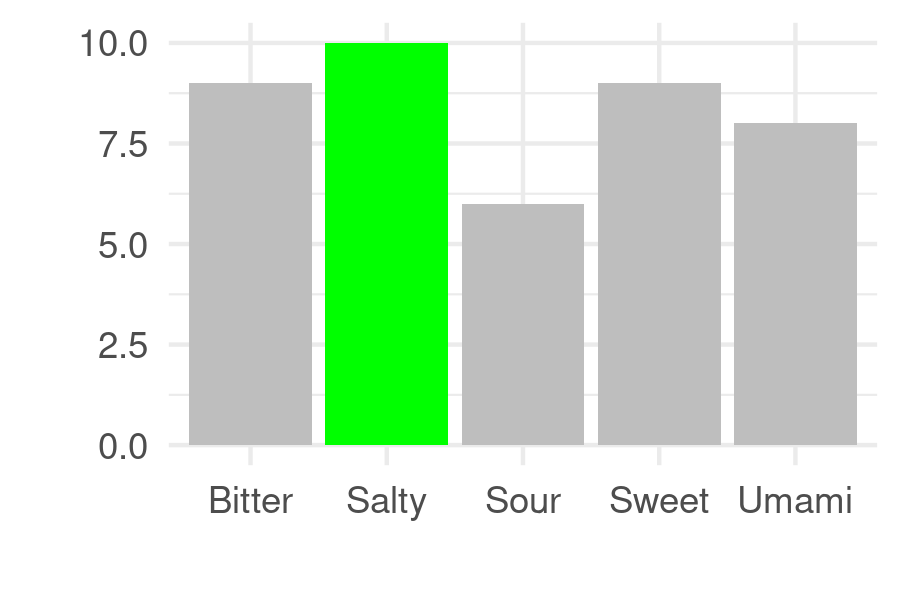
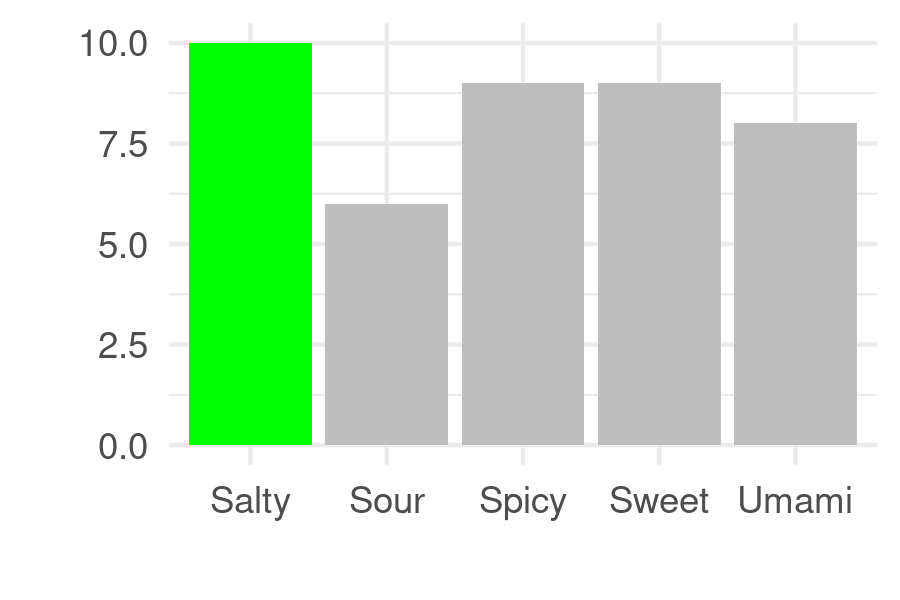
spicy

diff --git a/experiment.js b/experiment.js
@@ -196,11 +196,11 @@ var computer_choice = {
       </thead>
       <tbody>
         <tr>
-          <td class="tg-pcvp"><span style="color:green;">You</span></td>
+          <td class="tg-pcvp"><span style="color:LightSeaGreen;">You</span></td>
           <td class="tg-pcvp">Counterpart</td>
         </tr>
         <tr>
-          <td class="tg-pcvp"><span style="color:green;">` + score_self + `</span><br></td>
+          <td class="tg-pcvp"><span style="color:LightSeaGreen;">` + score_self + `</span><br></td>
           <td class="tg-pcvp">` + score_other + `</td>
         </tr>
       </tbody>
@@ -293,7 +293,7 @@ var group_assignment = {
       There are 42 people in the <span style="color:blue;">${team}</span> group,
       and 41 people in the <span style="color:red;">${other_team}</span> group.
       <br><br>From this point on, you will be interacting with other real people.
-      Please be respectful and answer in a timely fashion.
+      Please be respectful and answer in a timely fashion. If you are idle for more than 1 minute you may be removed from the experiment without full compensation.
       <br><br>Press "c" to continue.</div>`
     );
   },
@@ -358,11 +358,10 @@ var instructions_all_block = {
   choies: ['c'],
   stimulus: `<div id="instructions">
   In the next portion of the experiment, you will be shown several images while interacting with other participants over the Internet, in real time.
-  <br>
   If you have trouble viewing an image, please zoom in or out using your browser (by pressing control/command plus or minus on your keyboard).
-  <br>
   You will <b>NOT</b> be able to return to instructions after continuing. Please read all instructions carefully.
   At any point, you may press "c" to continue, unless another action is required.
+  If you are idle for more than 1 minute you may be removed from the experiment without full compensation.
   <br>
   Press "c" to continue.
   </div>`,
@@ -420,9 +419,9 @@ var instruction_pd_block = {
       '<h1>Instructions</h1>' +
       '<div id="instructions">You will be playing with another participant ' +
       team_statement +
-      `who is connected to the game in another location.<br>
+      `who is connected to the game in another location. Please be mindful and respectful of their time.<br>
       The amount of points you earn will be determined by the decisions
-      that you make in combination with the decision of the other participant.<br>
+      that you make in combination with the decision of the other participant. At the end of the game, each point will be worth $x that you will receive after the experiment.<br>
       You will be playing a series of rounds.
       <br>
       Press "c" to continue.` +
@@ -441,7 +440,7 @@ var instruction_pd_block_payout = {
     (which will be available while playing):</div>` +
     payout_table +
     `<div id="instructions"><br>
-    Your actions and earnings are indicated in <span style="color:green;">green</span> text.
+    Your actions and earnings are indicated in <span style="color:LightSeaGreen;">green</span> text.
     For example, if you choose to cooperate and your counterpart chooses to cooperate, you both will be awarded 6 points.
     <br>If you choose to cooperate and your counterpart chooses to not cooperate, you will be awarded 0 points and your counterpart will be awarded 10 points.
     <br>
@@ -570,7 +569,7 @@ var color_selection = {
 var flavor_selection = {
   type: 'html-button-response',
   stimulus: '',
-  choices: ['Sweet', 'Salty', 'Sour', 'Bitter', 'Umami'],
+  choices: ['Sweet', 'Salty', 'Sour', 'Spicy', 'Umami'],
   prompt: "<p>Out of the flavors listed, which do you prefer?</p>"
 };
 
@@ -583,7 +582,7 @@ var favorite_thing_prompt_ = {
     var responses = jsPsych.data.get().last(7).values() //[0].button_pressed;
     var fruit = ['Apples', 'Bananas', 'Strawberries', 'Grapes'][parseInt(responses[1].button_pressed)];
     var color = ['Blue', 'Green', 'Red', 'Yellow'][parseInt(responses[3].button_pressed)];
-    var flavor = ['Sweet', 'Salty', 'Sour', 'Bitter', 'Umami'][parseInt(responses[5].button_pressed)];
+    var flavor = ['Sweet', 'Salty', 'Sour', 'Spicy', 'Umami'][parseInt(responses[5].button_pressed)];
     console.log(responses);
     var x = `<p>The bar plots below show what others in your group chose.
     Your choice is indicated in green.</p>
@@ -612,7 +611,7 @@ var favorite_thing_prompt = {
     var responses = jsPsych.data.get().last(7).values() //[0].button_pressed;
     var fruit = ['Apples', 'Bananas', 'Strawberries', 'Grapes'][parseInt(responses[1].button_pressed)];
     var color = ['Blue', 'Green', 'Red', 'Yellow'][parseInt(responses[3].button_pressed)];
-    var flavor = ['Sweet', 'Salty', 'Sour', 'Bitter', 'Umami'][parseInt(responses[5].button_pressed)];
+    var flavor = ['Sweet', 'Salty', 'Sour', 'Spicy', 'Umami'][parseInt(responses[5].button_pressed)];
     jsPsych.data.addProperties({ fruit: fruit, color: color, flavor: flavor });
     var x = `<p>You will be shown a series of bar plots of what things other participants in your group chose.
     Your choice is indicated by the green bar in the plot.</p>
@@ -666,7 +665,7 @@ var favorite_thing_prompt_flavor = {
 
 var favorite_thing_question = {
   type: 'survey-likert',
-  preamble: '<p>Would you agree that you have similar tastes to others in your group, based on their responses to the previous questions?</p>',
+  preamble: '<p>Based on the responses of others in your group to the previous questions, would you agree that you are similar to others in your group?</p>',
   questions: [
     {prompt: "", labels: ["Strongly Disagree", "Disagree", "Neutral", "Agree", "Strongly Agree"], required: true}
   ]
